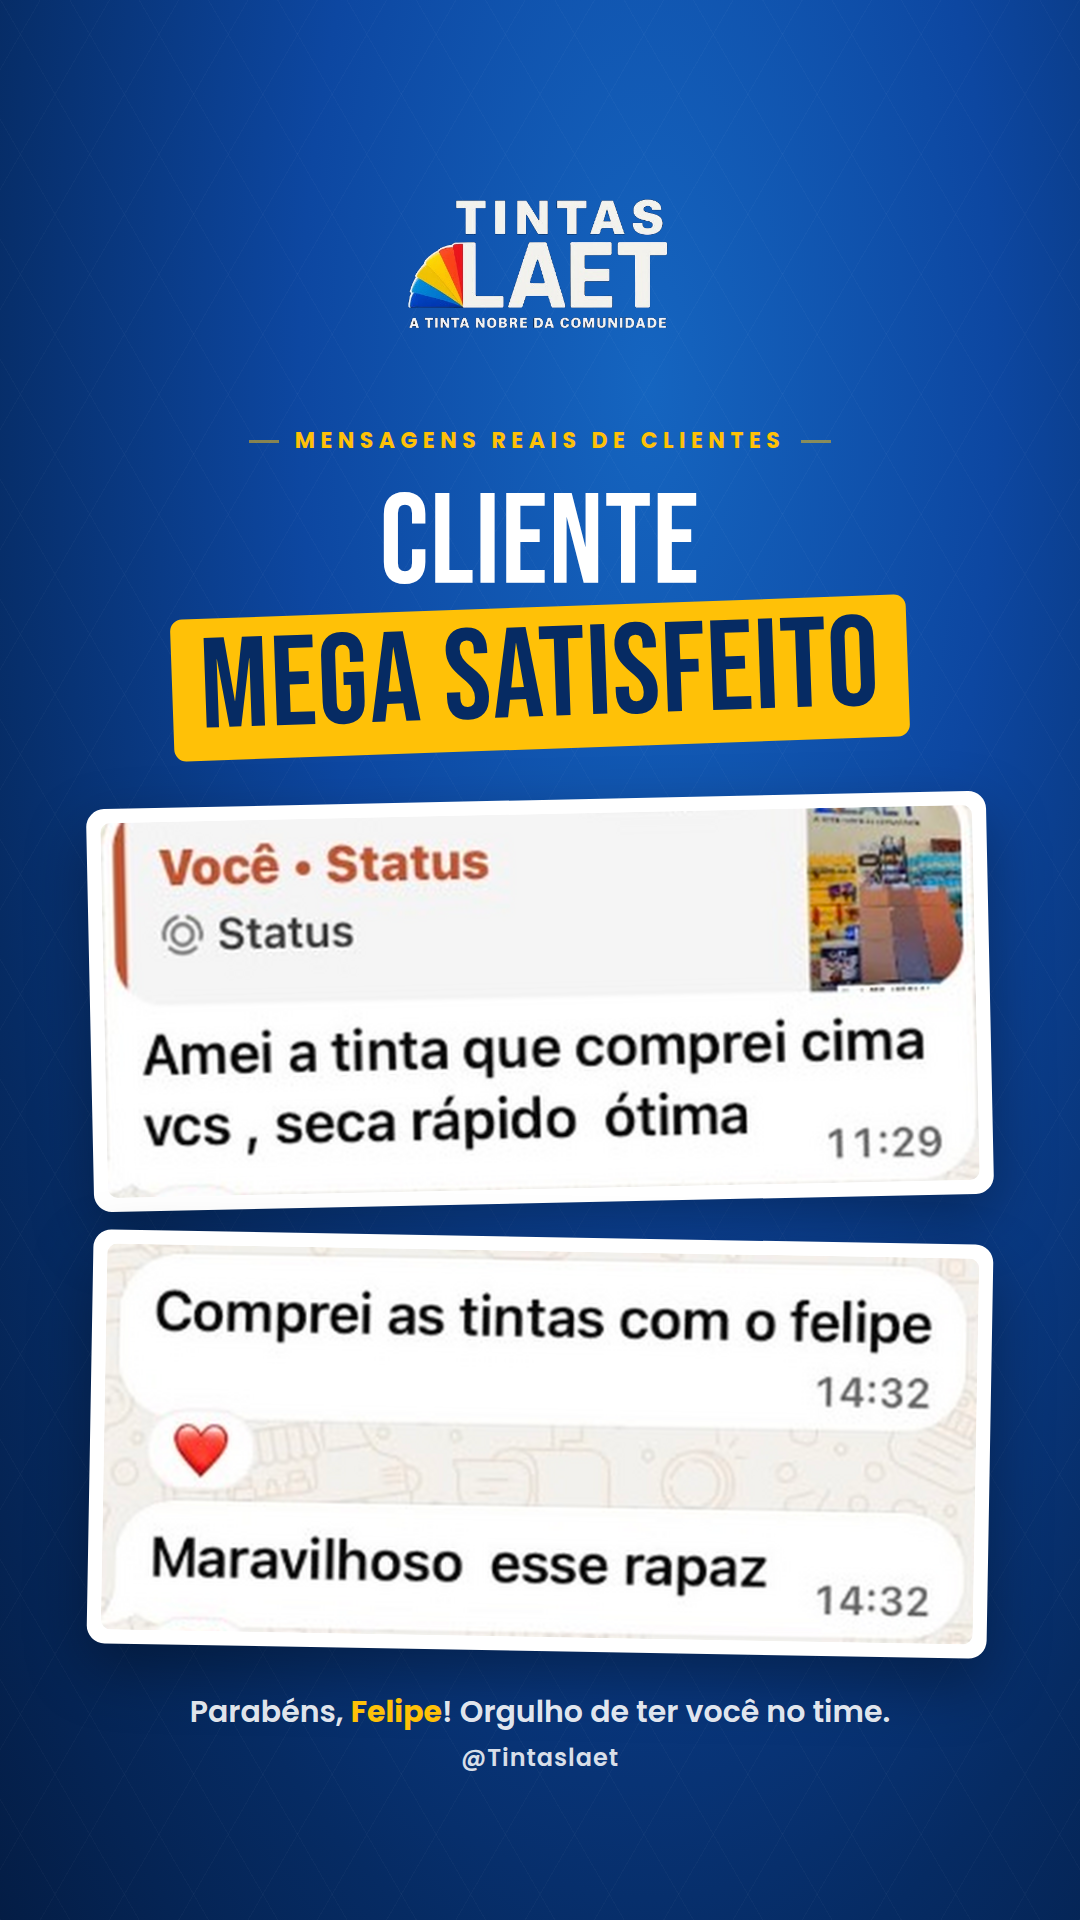
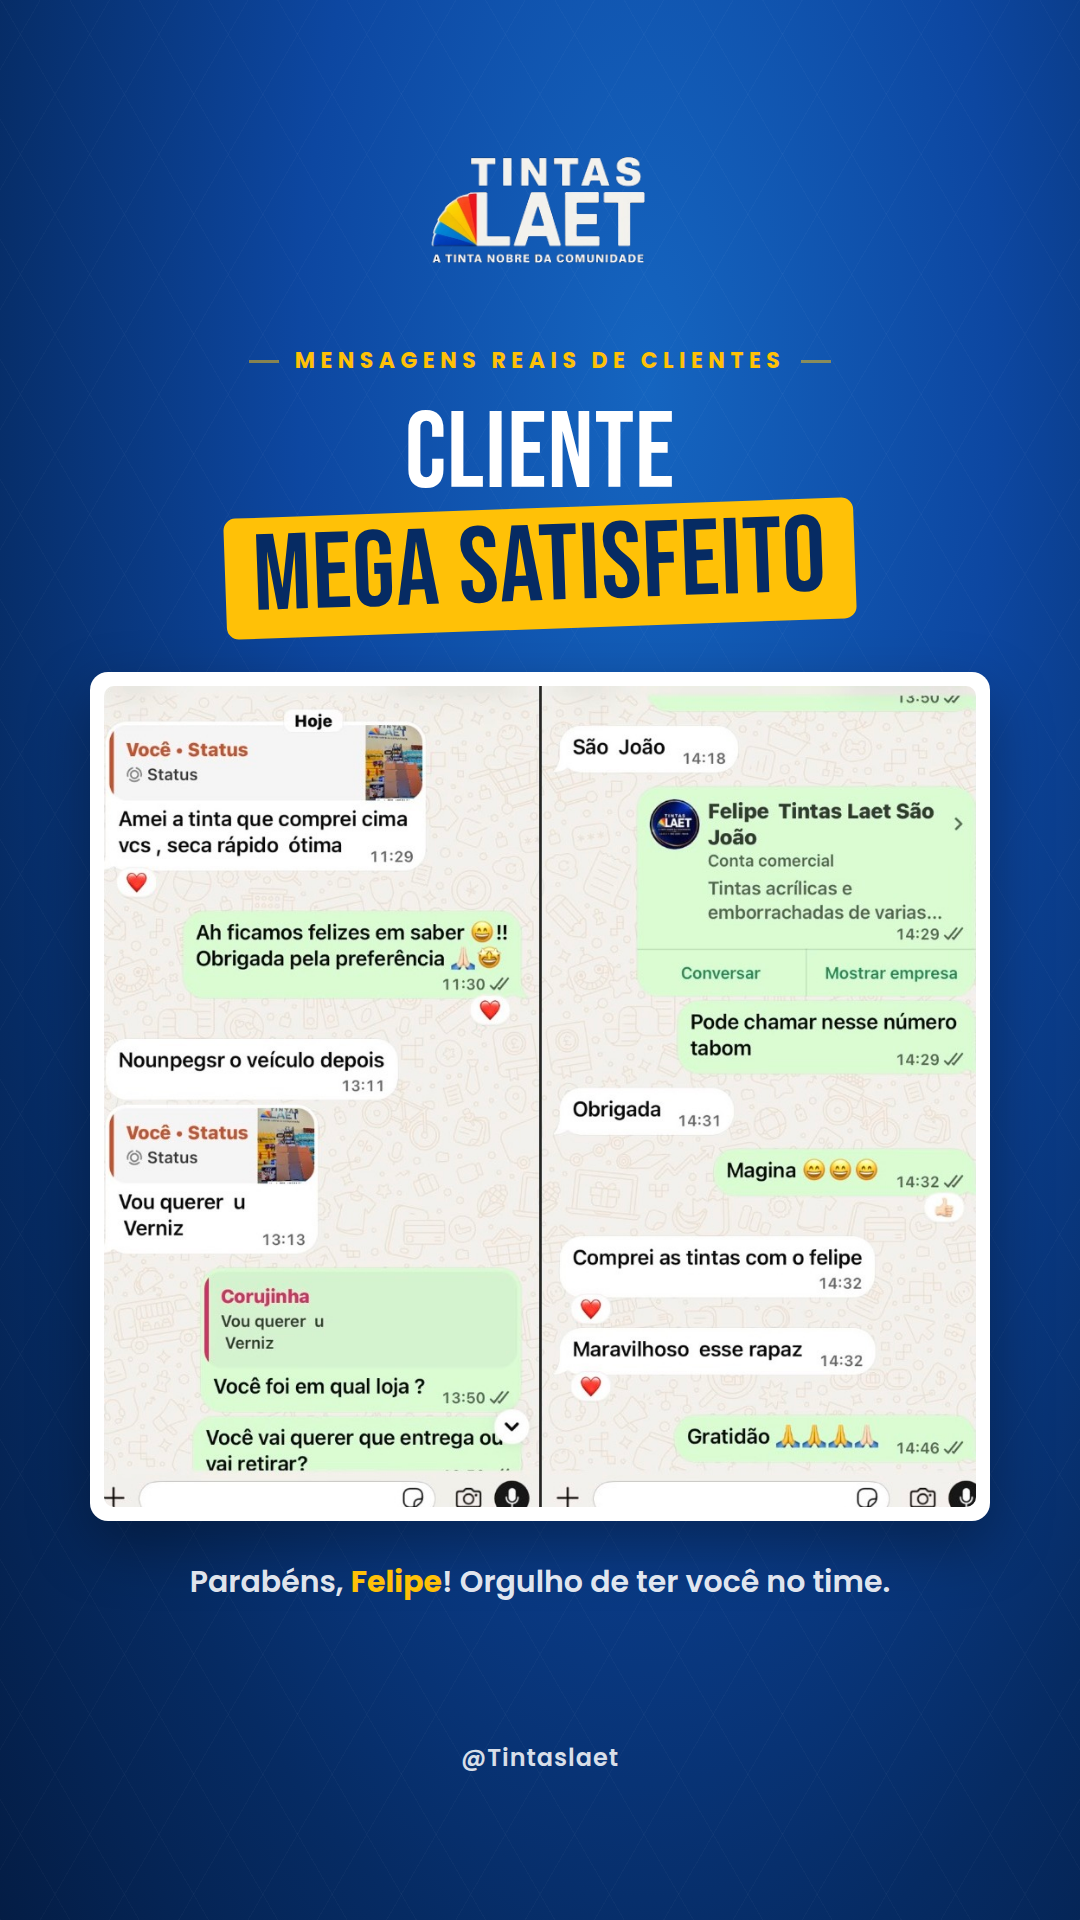
Story de feedback: usa o print real do WhatsApp
Claude-Session: https://claude.ai/code/session_01GERzdKqRwXMVg2X3B1iW2A

diff --git a/marketing/stories/2026-10/01-feedback-cliente-felipe/story.html b/marketing/stories/2026-10/01-feedback-cliente-felipe/story.html
@@ -17,15 +17,14 @@ body { background:#020A18; }
   background-image: repeating-linear-gradient(60deg, rgba(255,255,255,.025) 0, rgba(255,255,255,.025) 1px, transparent 1px, transparent 60px),
                    repeating-linear-gradient(-60deg, rgba(255,255,255,.025) 0, rgba(255,255,255,.025) 1px, transparent 1px, transparent 60px); }
 .slide > * { position:relative; z-index:2; }
-.logo { height:280px; object-fit:contain; margin-top:130px; }
+.logo { height:230px; object-fit:contain; margin-top:100px; }
 .eyebrow { font:700 22px/1 'Poppins',sans-serif; color:#FFC107; letter-spacing:.25em; text-transform:uppercase; display:flex; align-items:center; gap:16px; margin-top:20px; }
 .eyebrow::before, .eyebrow::after { content:''; width:30px; height:3px; background:rgba(255,193,7,.5); }
-h1 { font:400 128px/.98 'Bebas Neue',sans-serif; color:#fff; letter-spacing:.01em; margin-top:30px; }
+h1 { font:400 108px/.98 'Bebas Neue',sans-serif; color:#fff; letter-spacing:.01em; margin-top:30px; }
 h1 .chip { background:#FFC107; color:#062B63; padding:2px 28px; border-radius:12px; display:inline-block; transform:rotate(-2deg); line-height:1.08; }
-.print { width:900px; background:#fff; border-radius:18px; padding:14px; box-shadow:0 24px 60px rgba(0,0,0,.35); }
+.print {  background:#fff; border-radius:18px; padding:14px; box-shadow:0 24px 60px rgba(0,0,0,.35); }
 .print img { width:100%; display:block; border-radius:10px; }
-.p1 { margin-top:50px; transform:rotate(-1.2deg); }
-.p2 { margin-top:34px; transform:rotate(1deg); }
+.print { margin-top:44px; width:900px; }
 .nota { margin-top:40px; font:600 30px/1.4 'Poppins',sans-serif; color:rgba(255,255,255,.9); }
 .nota b { color:#FFC107; font-weight:700; }
 .rodape { position:absolute !important; bottom:150px; left:0; right:0; font:600 24px/1 'Poppins',sans-serif; color:rgba(255,255,255,.85); letter-spacing:.04em; }
@@ -36,8 +35,7 @@ h1 .chip { background:#FFC107; color:#062B63; padding:2px 28px; border-radius:12
   <img class="logo" src="../../../../identidade/logotipo branco-remove-bg-io.png" alt="Tintas Laet">
   <div class="eyebrow">Mensagens reais de clientes</div>
   <h1>CLIENTE<br><span class="chip">MEGA SATISFEITO</span></h1>
-  <div class="print p1"><img src="crop-a.png" alt=""></div>
-  <div class="print p2"><img src="crop-b.png" alt=""></div>
+  <div class="print"><img src="print-real.jpg" alt="Print real do WhatsApp"></div>
   <div class="nota">Parabéns, <b>Felipe</b>! Orgulho de ter você no time.</div>
   <div class="rodape">@Tintaslaet</div>
 </div>
